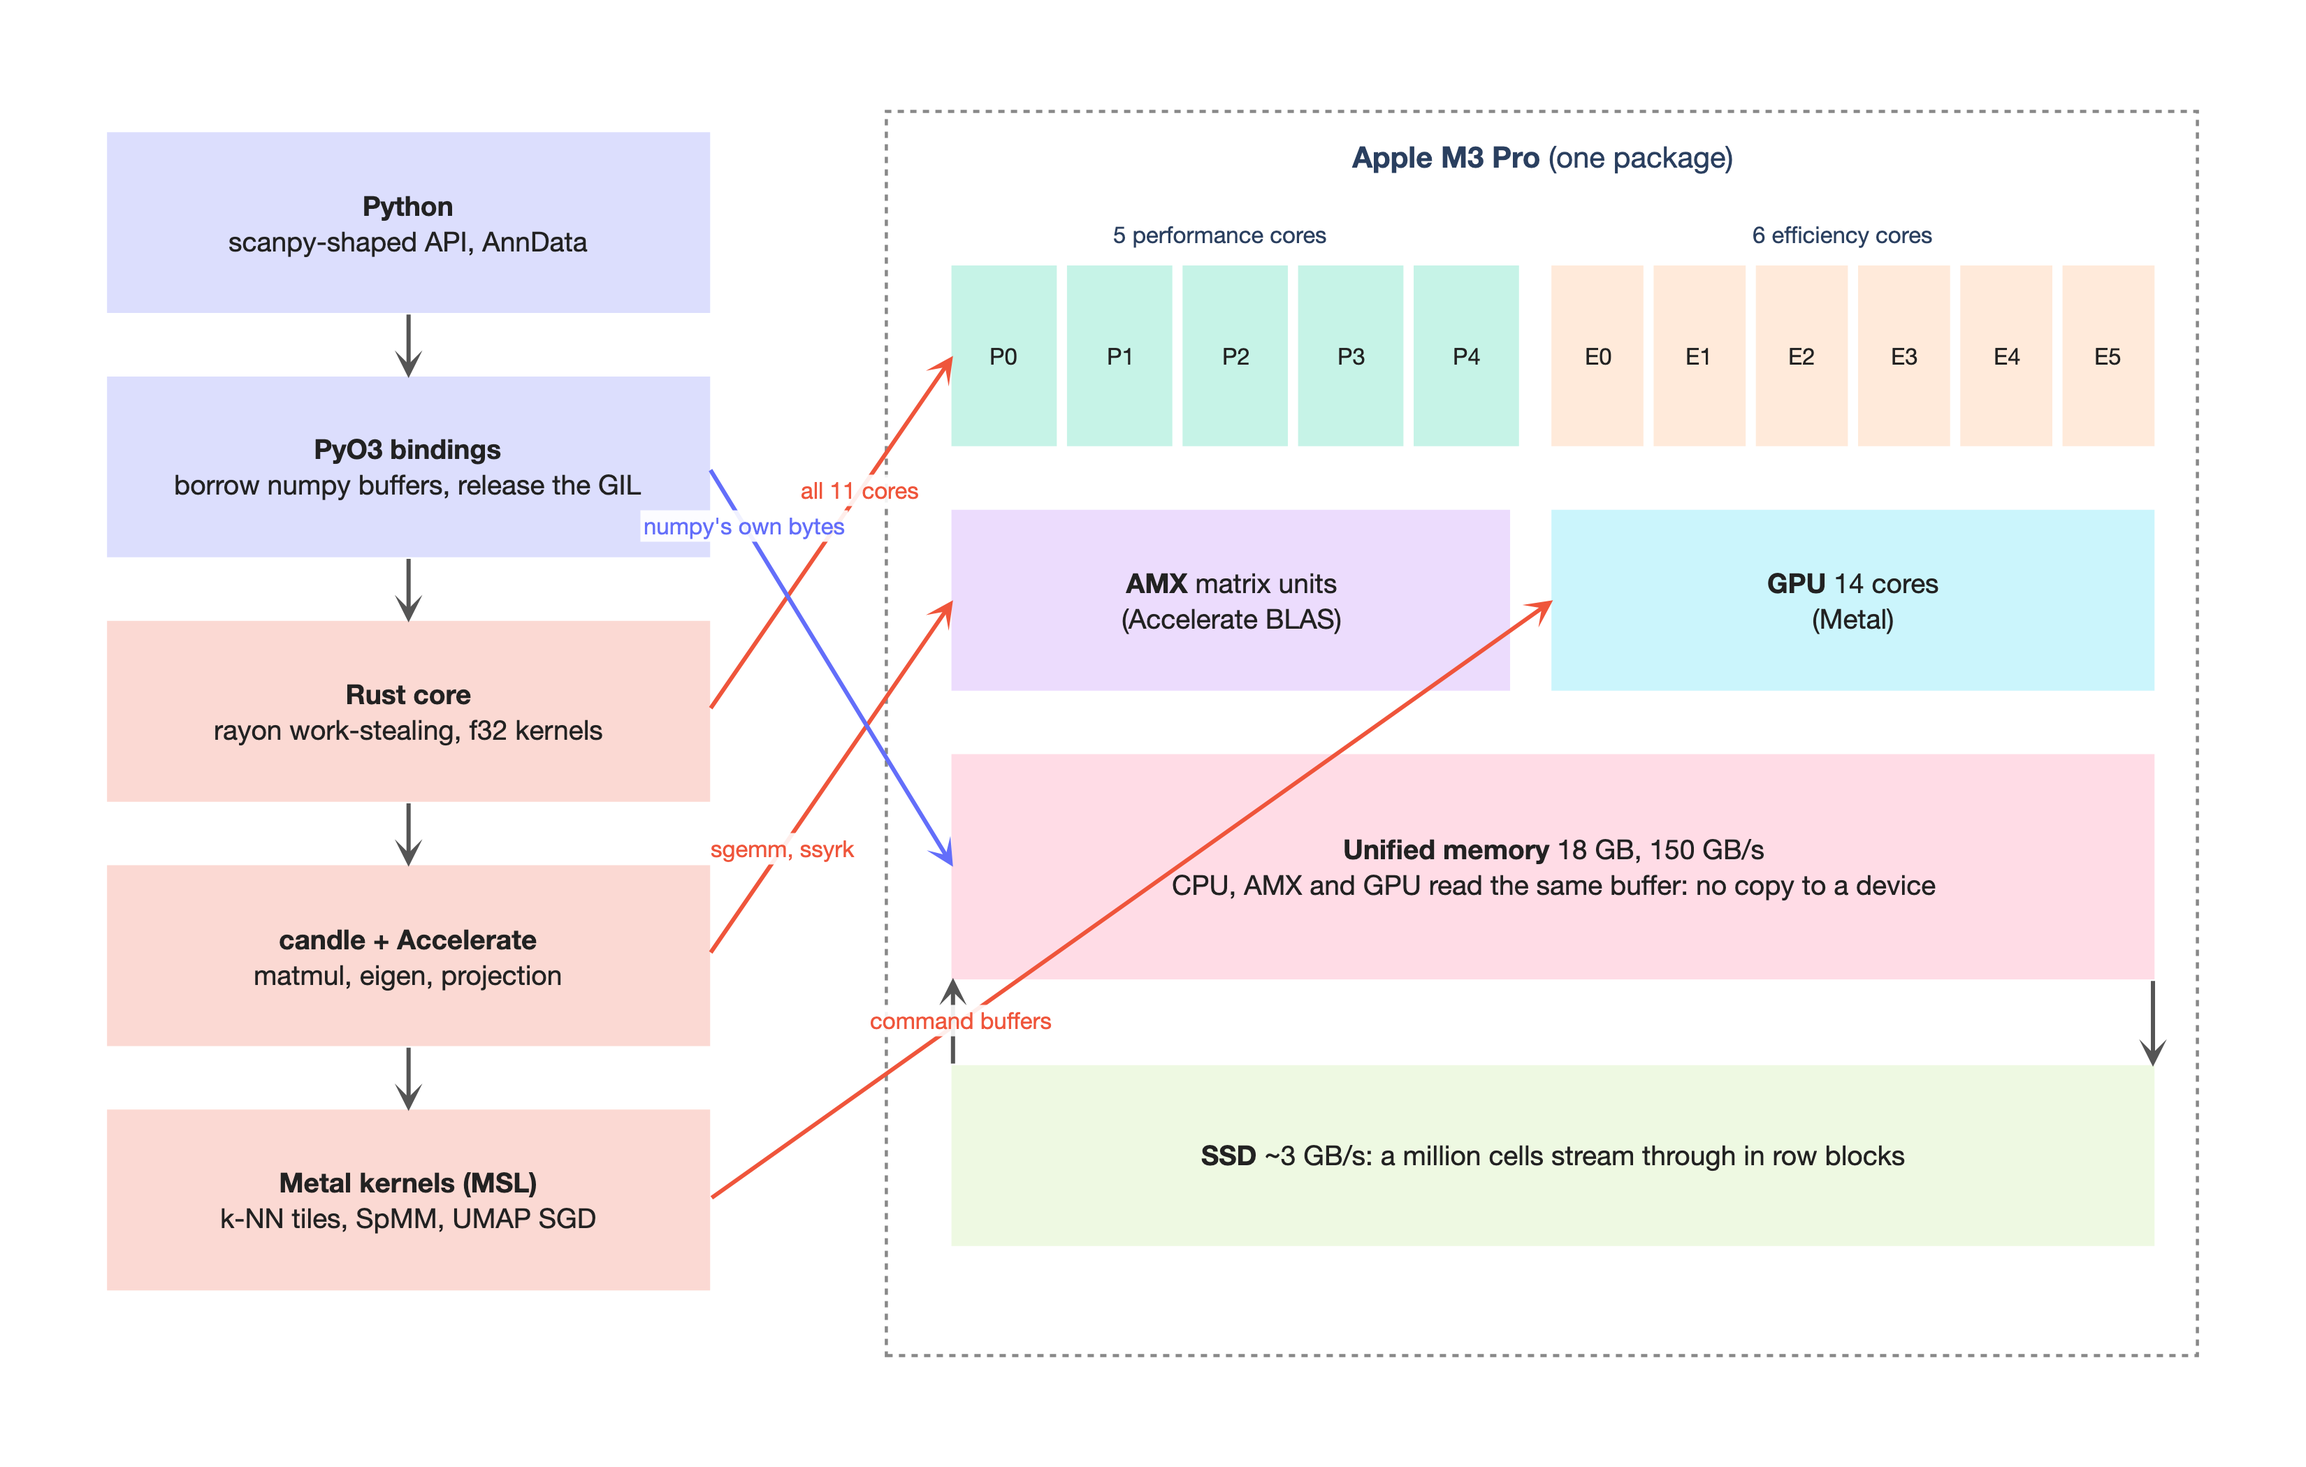
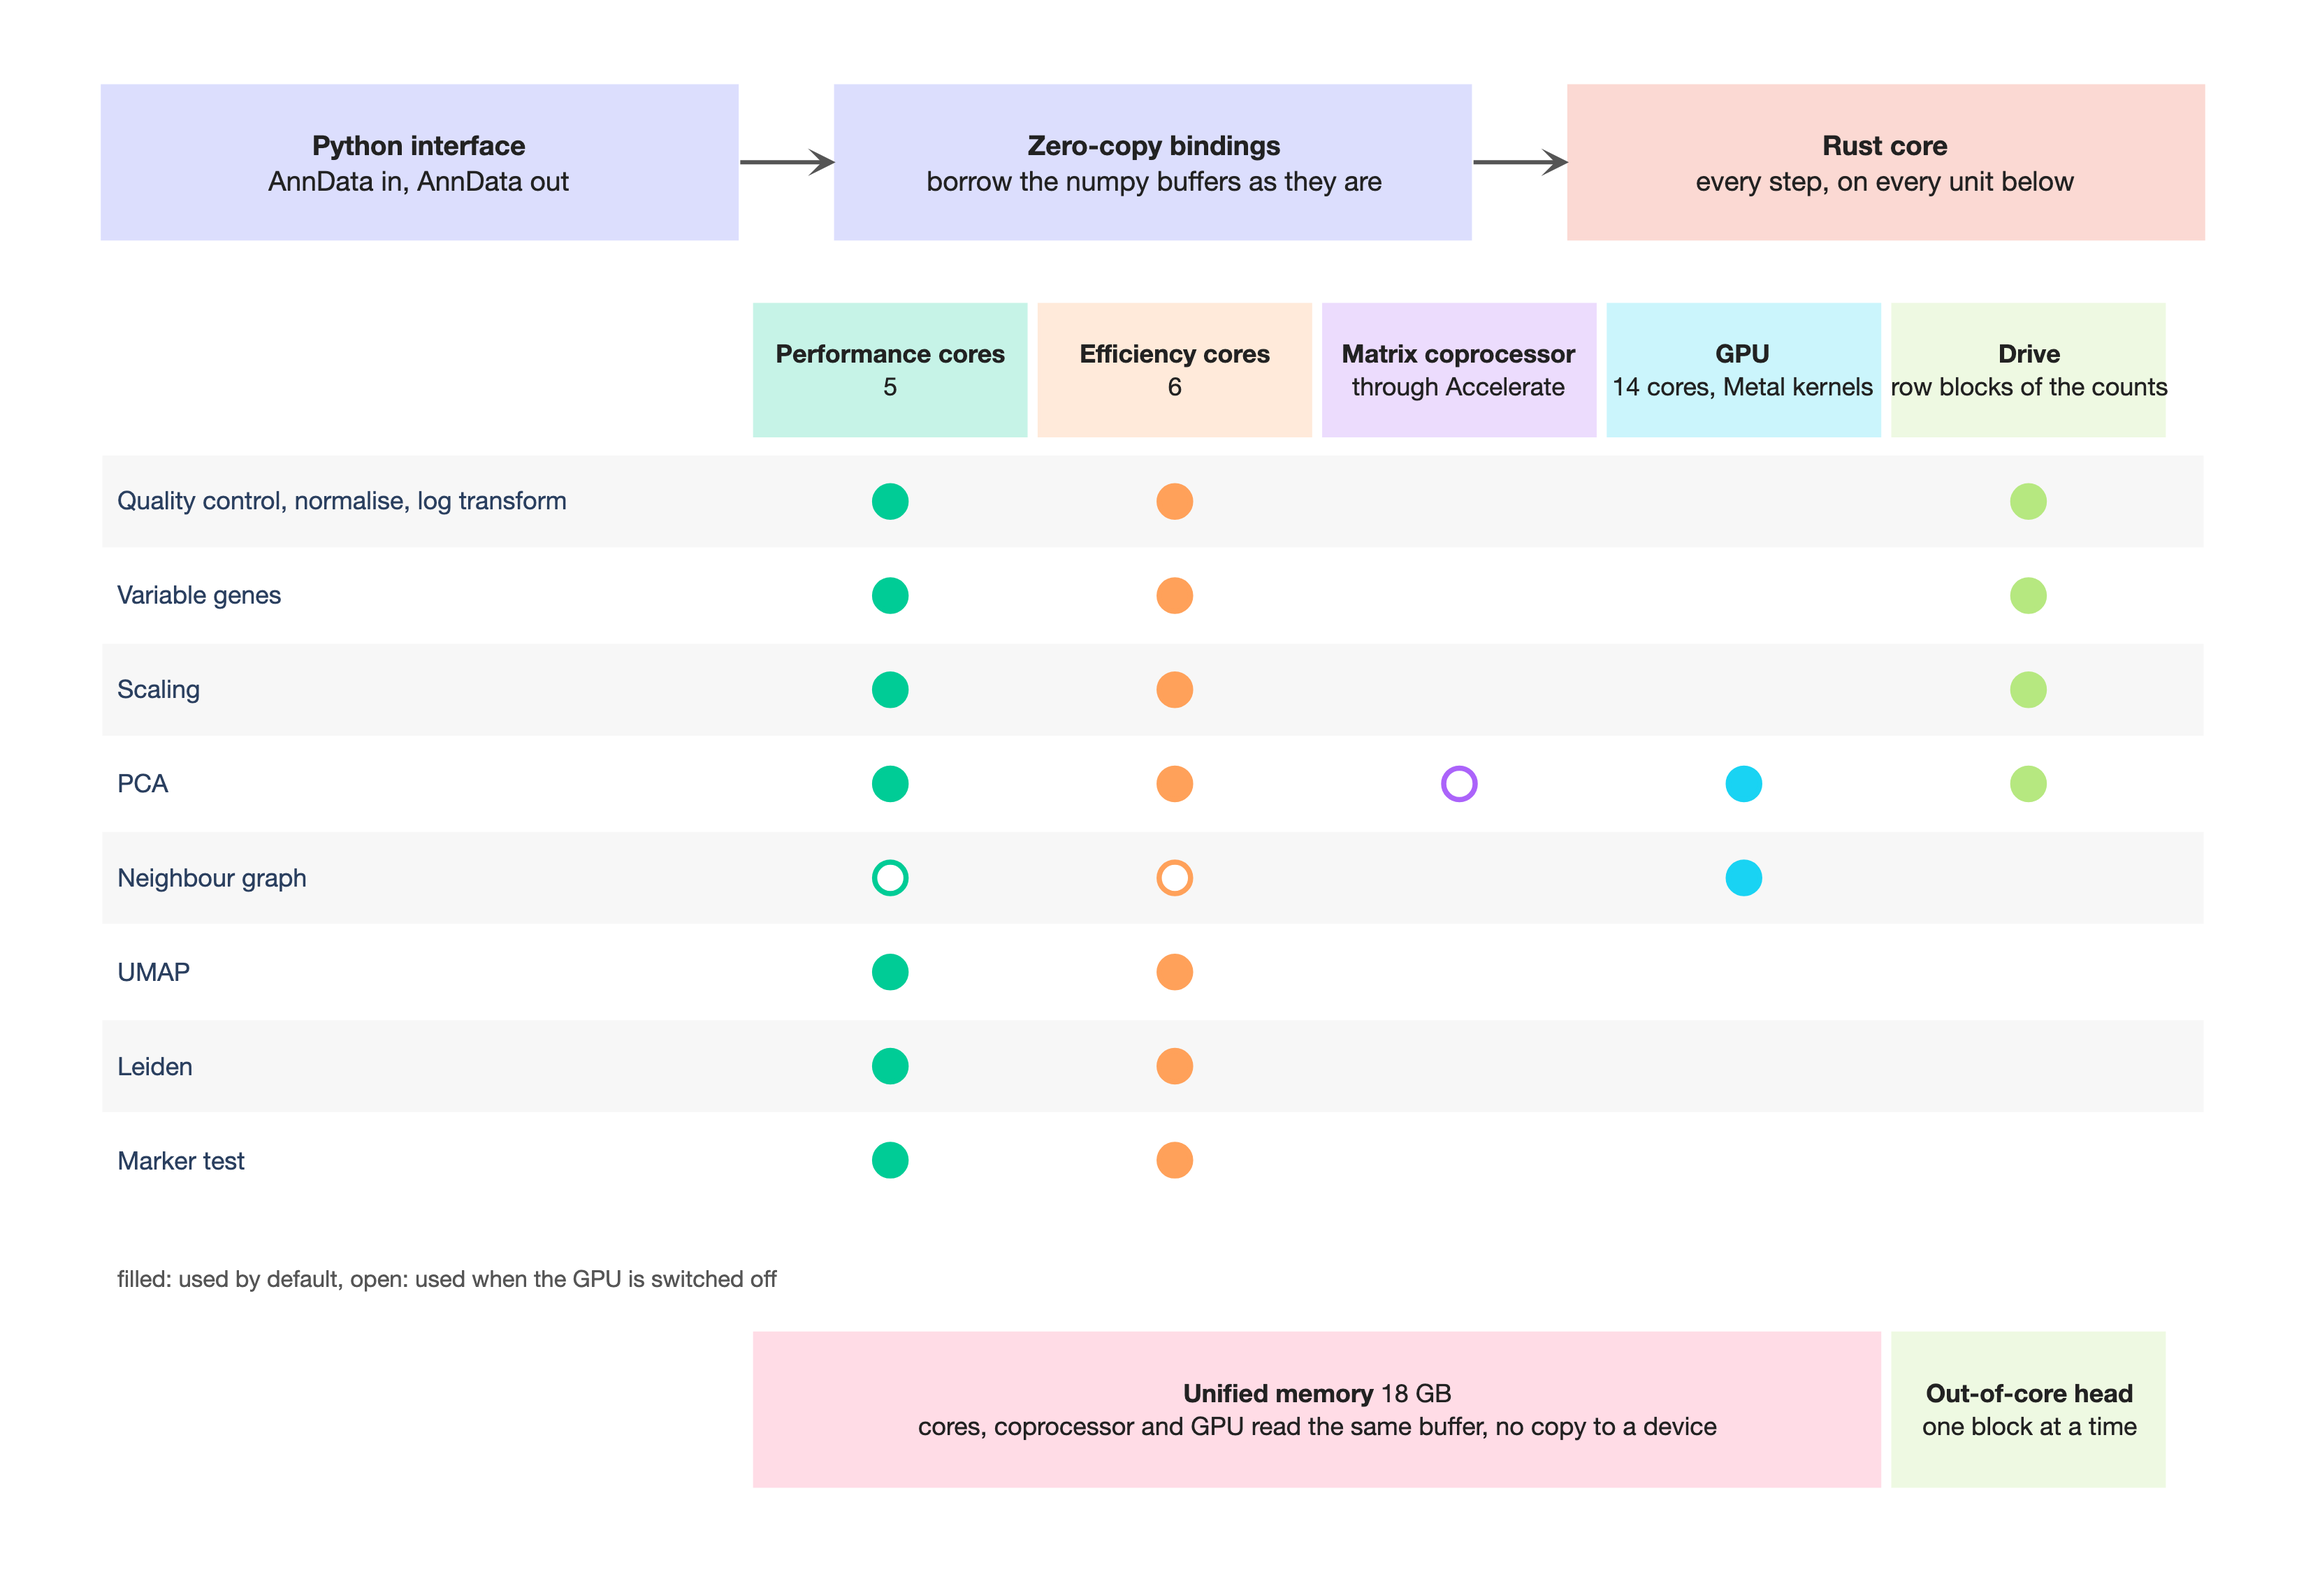
Figure 1 redrawn as a layers row and a step-by-unit grid

diff --git a/benches/figures.py b/benches/figures.py
@@ -142,60 +142,64 @@ def blank_axes(fig, w, h):
 
 
 def f1_chip_and_library():
-    """The M3 Pro as blocks and the metalcyte layer that drives each one."""
+    """What runs where: the Metalcyte layers, and the unit of the package each step runs on."""
     fig = go.Figure()
-    blank_axes(fig, 100, 62)
+    blank_axes(fig, 100, 68)
     c = COLORS
-    # software stack, left column
-    box(fig, 3, 50, 30, 58, "<b>Python</b><br>scanpy-shaped API, AnnData", c[0])
-    box(fig, 3, 39, 30, 47, "<b>PyO3 bindings</b><br>borrow numpy buffers, release the GIL", c[0])
-    box(fig, 3, 28, 30, 36, "<b>Rust core</b><br>rayon work-stealing, f32 kernels", c[1])
-    box(fig, 3, 17, 30, 25, "<b>candle + Accelerate</b><br>matmul, eigen, projection", c[1])
-    box(fig, 3, 6, 30, 14, "<b>Metal kernels (MSL)</b><br>k-NN tiles, SpMM, UMAP SGD", c[1])
-    arrow(fig, 16.5, 50, 16.5, 47)
-    arrow(fig, 16.5, 39, 16.5, 36)
-    arrow(fig, 16.5, 28, 16.5, 25)
-    arrow(fig, 16.5, 17, 16.5, 14)
-    # the chip, right block
-    fig.add_shape(
-        type="rect", x0=38, y0=3, x1=97, y1=59, line=dict(color="#888", width=1.5, dash="dot")
-    )
-    fig.add_annotation(
-        x=67.5, y=57, text="<b>Apple M3 Pro</b> (one package)", showarrow=False, font=dict(size=14)
-    )
-    # P cores
-    for i in range(5):
-        box(fig, 41 + i * 5.2, 44, 45.6 + i * 5.2, 52, f"P{i}", c[2], size=11)
-    fig.add_annotation(
-        x=53, y=53.5, text="5 performance cores", showarrow=False, font=dict(size=11)
-    )
-    # E cores
-    for i in range(6):
-        box(fig, 68 + i * 4.6, 44, 72 + i * 4.6, 52, f"E{i}", c[4], size=11)
-    fig.add_annotation(x=81, y=53.5, text="6 efficiency cores", showarrow=False, font=dict(size=11))
-    box(fig, 41, 33, 66, 41, "<b>AMX</b> matrix units<br>(Accelerate BLAS)", c[3])
-    box(fig, 68, 33, 95, 41, "<b>GPU</b> 14 cores<br>(Metal)", c[5])
-    box(
-        fig,
-        41,
-        20,
-        95,
-        30,
-        "<b>Unified memory</b> 18 GB, 150 GB/s<br>CPU, AMX and GPU read the same buffer: no copy to a device",  # noqa: E501
-        c[6],
-    )
-    box(
-        fig, 41, 8, 95, 16, "<b>SSD</b> ~3 GB/s: a million cells stream through in row blocks", c[7]
-    )
-    arrow(fig, 95, 20, 95, 16)
-    arrow(fig, 41, 16, 41, 20)
-    # software → hardware arrows
-    arrow(fig, 30, 32, 41, 48, "all 11 cores", c[1], at=0.62)
-    arrow(fig, 30, 21, 41, 37, "sgemm, ssyrk", c[1], at=0.3)
-    arrow(fig, 30, 10, 68, 37, "command buffers", c[1], at=0.3)
-    arrow(fig, 30, 43, 41, 25, "numpy's own bytes", c[0], at=0.15)
-    fig.update_layout(title="F1. What runs where: the metalcyte stack on an Apple silicon package")
-    save(fig, "F1_chip_and_library", 1100, 700)
+    # the software, one row
+    box(fig, 2, 59, 31, 66, "<b>Python interface</b><br>AnnData in, AnnData out", c[0])
+    box(fig, 35.5, 59, 64.5, 66, "<b>Zero-copy bindings</b><br>borrow the numpy buffers as they are", c[0])
+    box(fig, 69, 59, 98, 66, "<b>Rust core</b><br>every step, on every unit below", c[1])
+    arrow(fig, 31, 62.5, 35.5, 62.5)
+    arrow(fig, 64.5, 62.5, 69, 62.5)
+    # the hardware, one column each
+    units = [
+        ("<b>Performance cores</b><br>5", c[2]),
+        ("<b>Efficiency cores</b><br>6", c[4]),
+        ("<b>Matrix coprocessor</b><br>through Accelerate", c[3]),
+        ("<b>GPU</b><br>14 cores, Metal kernels", c[5]),
+        ("<b>Drive</b><br>row blocks of the counts", c[7]),
+    ]
+    xs = [38, 51, 64, 77, 90]
+    for (label, color), x in zip(units, xs):
+        box(fig, x - 6.2, 50, x + 6.2, 56, label, color, size=12)
+    # the pipeline, one row each; filled = default on the GPU path, open = when the GPU is off
+    steps = [
+        ("Quality control, normalise, log transform", "PPE--D"),
+        ("Variable genes", "PPE--D"),
+        ("Scaling", "PPE--D"),
+        ("PCA", "PPEoGD"),
+        ("Neighbour graph", "oo-G-"),
+        ("UMAP", "PPE--"),
+        ("Leiden", "PPE--"),
+        ("Marker test", "PPE--"),
+    ]
+    y0 = 47
+    for i, (label, code) in enumerate(steps):
+        y = y0 - i * 4.3
+        if i % 2 == 0:
+            fig.add_shape(type="rect", x0=2, y0=y - 2.1, x1=98, y1=y + 2.1,
+                          fillcolor="#000", opacity=0.03, line=dict(width=0), layer="below")
+        fig.add_annotation(x=2.5, y=y, text=label, showarrow=False, xanchor="left", font=dict(size=12))
+        cols = [ch for ch in code.replace("PPE", "PE")]
+        for ch, x, (_, color) in zip(cols, xs, units):
+            if ch == "-":
+                continue
+            filled = ch != "o"
+            fig.add_trace(go.Scatter(
+                x=[x], y=[y], mode="markers", showlegend=False, hoverinfo="skip",
+                marker=dict(size=15, color=color if filled else "white",
+                            line=dict(color=color, width=2.5)),
+            ))
+    # what the units share
+    box(fig, 31.8, 2, 83.2, 9,
+        "<b>Unified memory</b> 18 GB<br>cores, coprocessor and GPU read the same buffer, no copy to a device",
+        c[6], size=12)
+    box(fig, 83.8, 2, 96.2, 9, "<b>Out-of-core head</b><br>one block at a time", c[7], size=12)
+    fig.add_annotation(x=2.5, y=11.5, xanchor="left", showarrow=False, font=dict(size=11, color="#555"),
+                       text="filled: used by default, open: used when the GPU is switched off")
+    fig.update_layout(title="F1. What runs where: the Metalcyte layers and the unit each step runs on")
+    save(fig, "F1_chip_and_library", 1100, 750)
 
 
 # ----------------------------------------------------------------------------- F2
